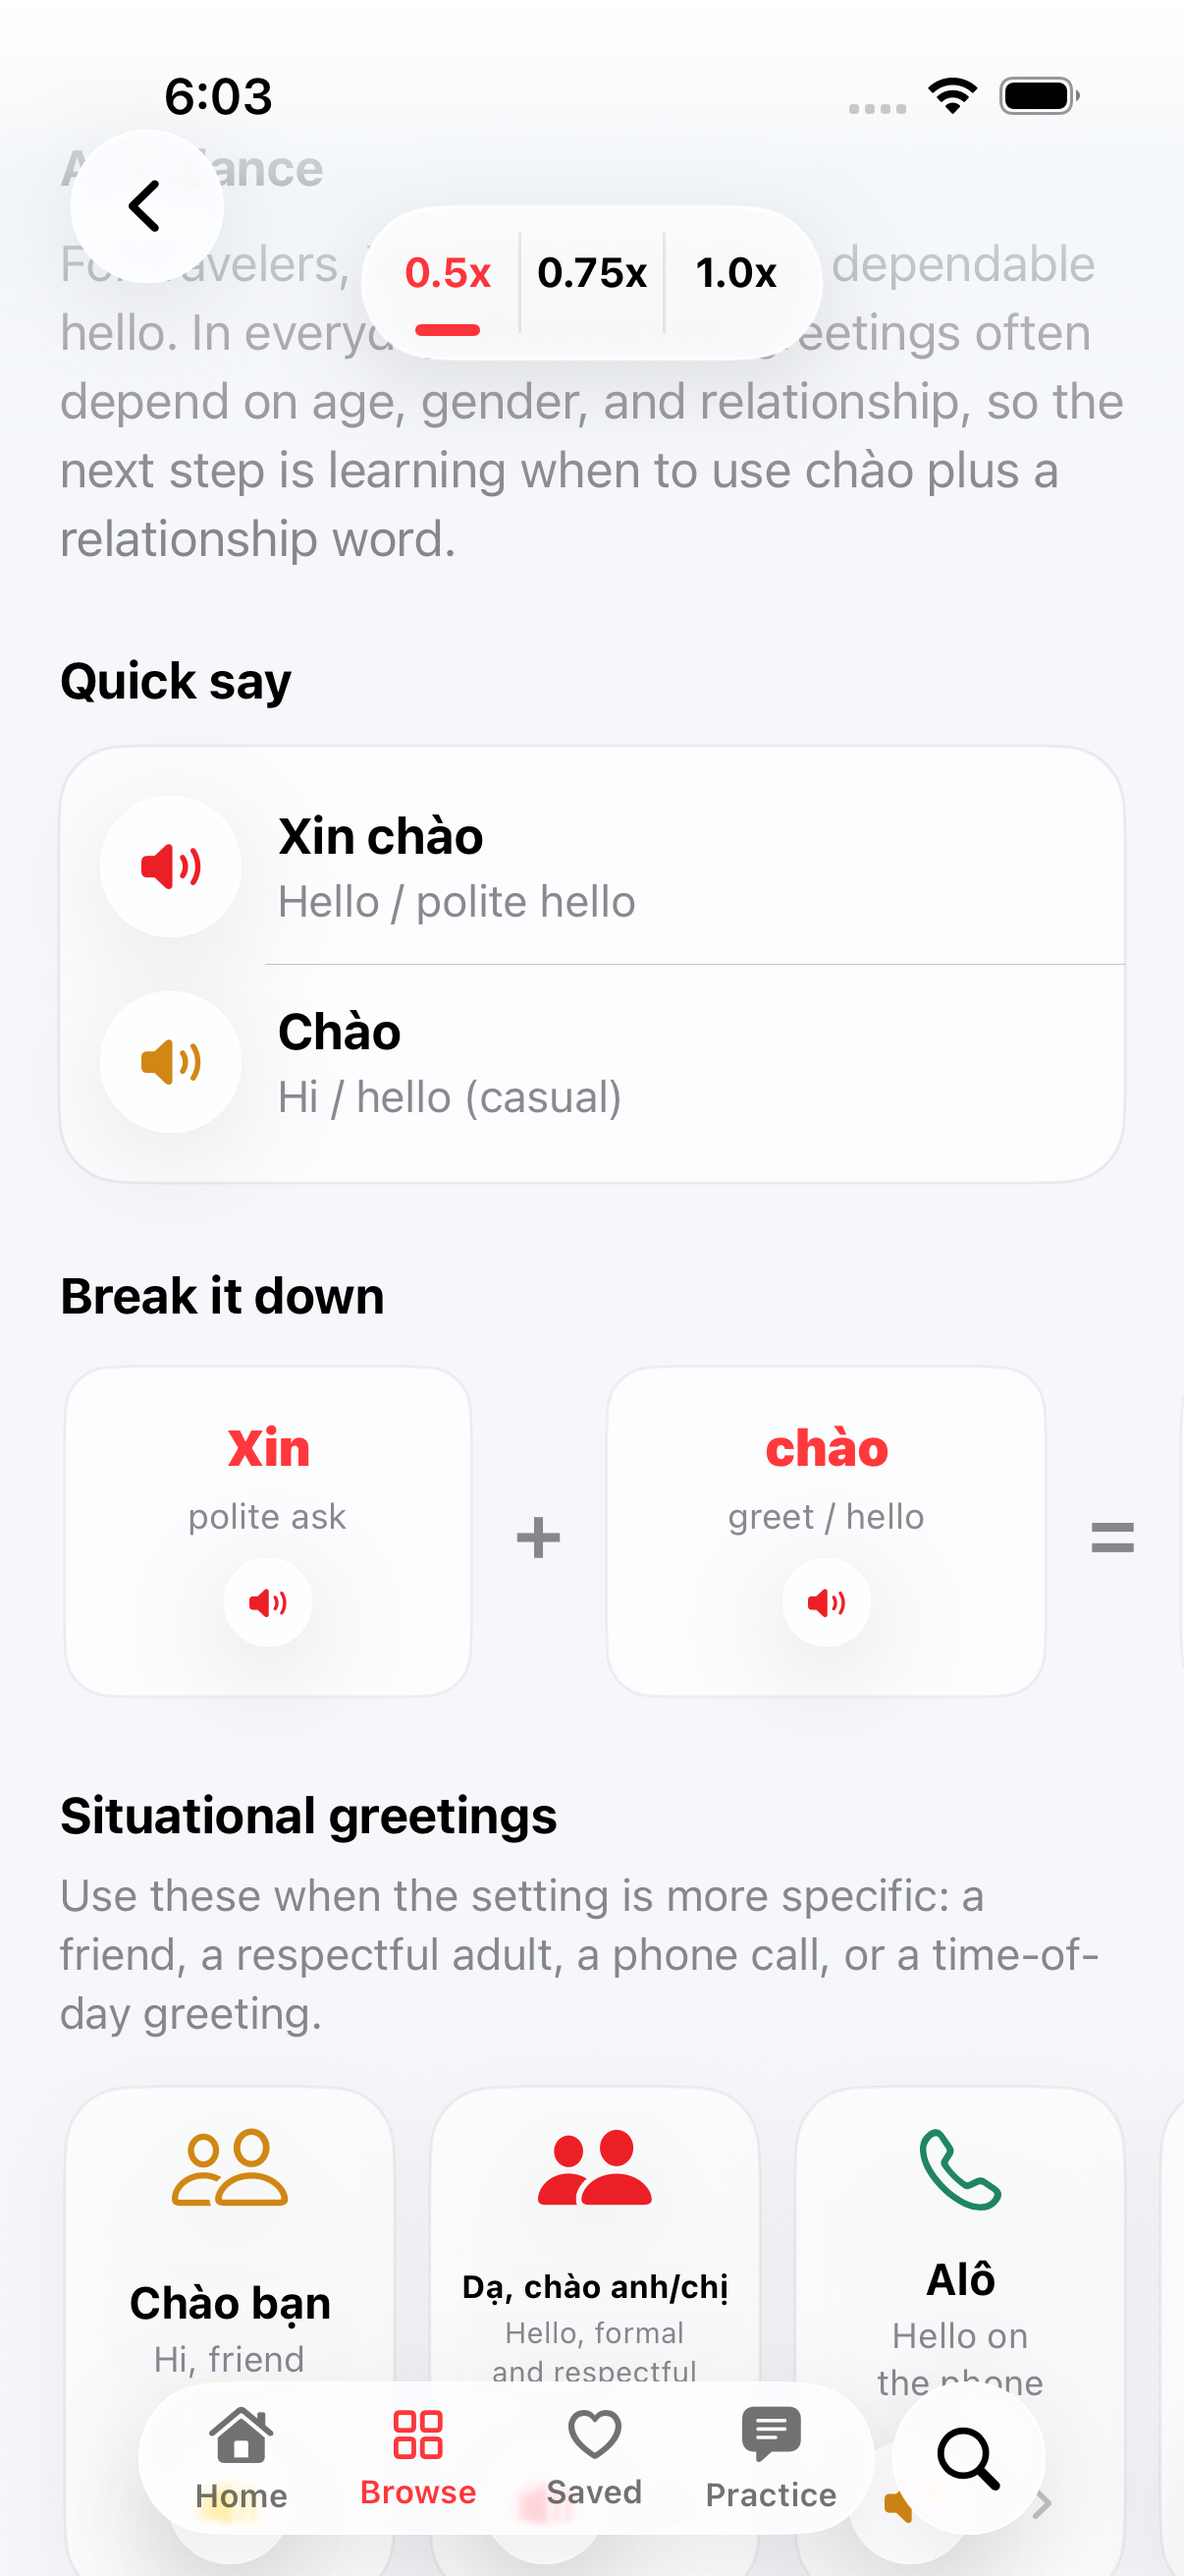
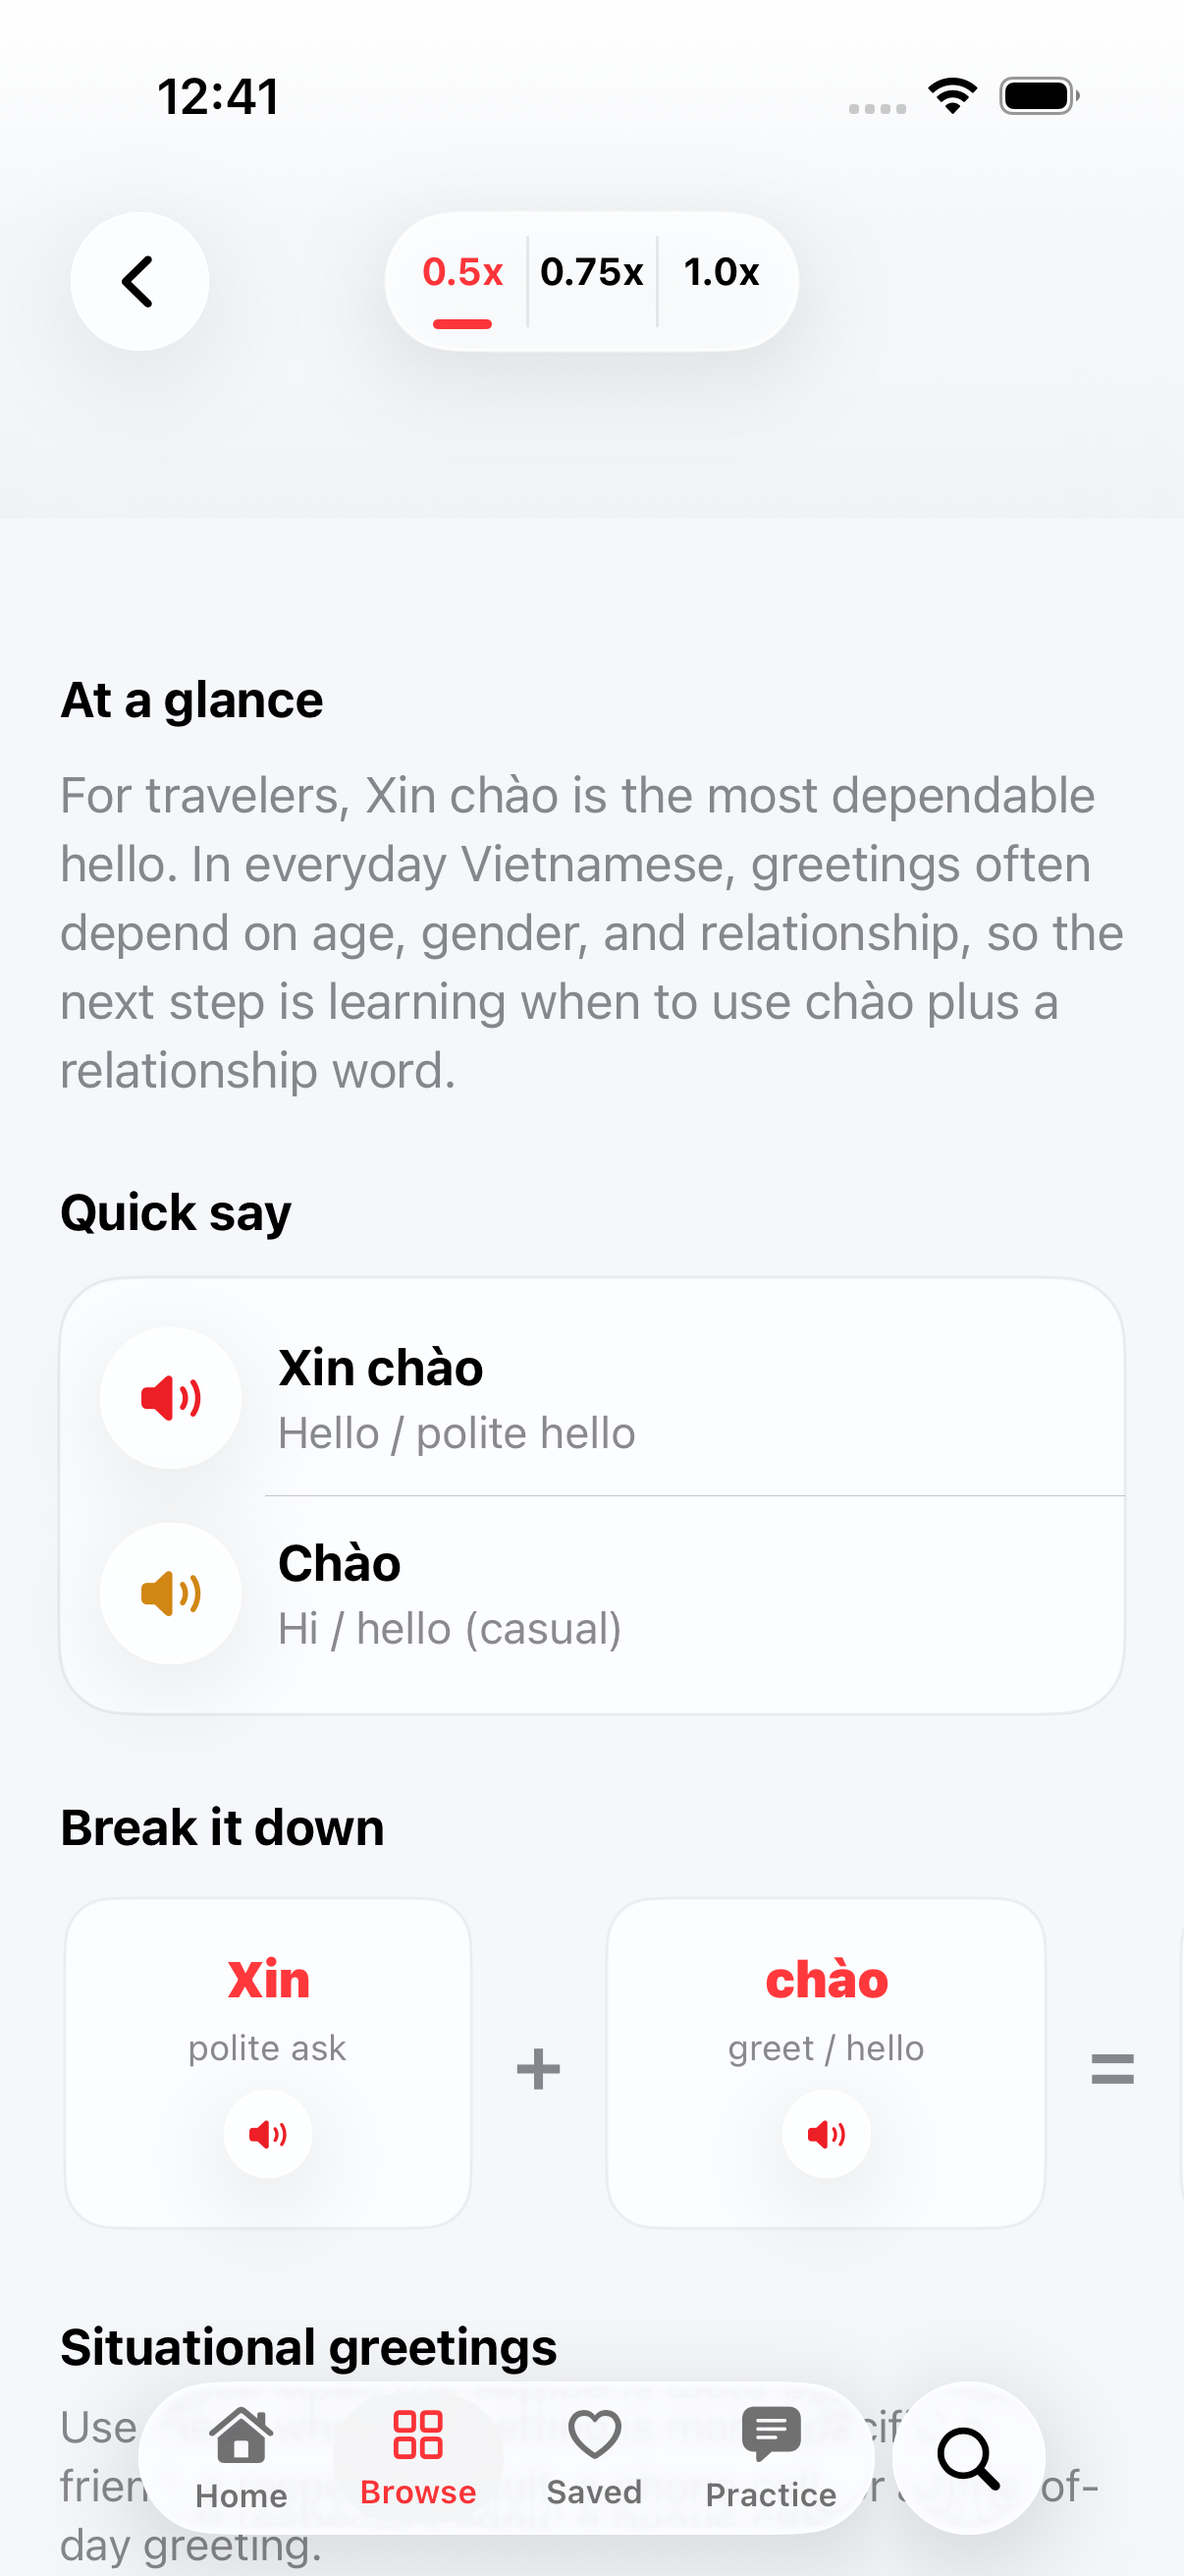
Align top admin chrome row

diff --git a/native-ios/App/Views/AppShellView.swift b/native-ios/App/Views/AppShellView.swift
@@ -216,29 +216,12 @@ struct AppShellView: View {
                 }
             }
             .overlay(alignment: .top) {
-                if showsPinnedAudioSpeedControl {
-                    PinnedAudioSpeedControl()
-                        .padding(.top, AppChromeLayout.pinnedAudioSpeedTopPadding)
-                        .transition(.scale(scale: 0.92).combined(with: .opacity))
+                if showsTopAdminRow {
+                    topAdminRow
+                        .padding(.horizontal, AppChromeLayout.topAdminHorizontalPadding)
+                        .padding(.top, AppChromeLayout.topAdminTopPadding)
+                        .transition(.opacity)
                         .zIndex(410)
-                }
-            }
-            .overlay(alignment: .topLeading) {
-                if showsStaticBackButton {
-                    staticBackButton
-                        .padding(.leading, 24)
-                        .padding(.top, 6)
-                        .offset(y: -24)
-                        .zIndex(400)
-                }
-            }
-            .overlay(alignment: .topTrailing) {
-                if navigation.canGoForward {
-                    forwardButton
-                        .padding(.trailing, 24)
-                        .padding(.top, 6)
-                        .offset(y: -24)
-                        .zIndex(400)
                 }
             }
             .onAppear {
@@ -527,6 +510,10 @@ struct AppShellView: View {
         showsPinnedAudioSpeedControl ? AppChromeLayout.pinnedAudioSpeedScrollClearance : 0
     }
 
+    private var showsTopAdminRow: Bool {
+        showsStaticBackButton || showsPinnedAudioSpeedControl || navigation.canGoForward
+    }
+
     private var bottomChromePadding: CGFloat {
         isSearchFieldFocused ? 12 : AppChromeLayout.bottomPadding
     }
@@ -553,19 +540,47 @@ struct AppShellView: View {
         .contentShape(Rectangle())
     }
 
+    private var topAdminRow: some View {
+        ZStack {
+            HStack {
+                if showsStaticBackButton {
+                    staticBackButton
+                } else {
+                    topAdminPlaceholder
+                }
+
+                Spacer(minLength: 0)
+
+                if navigation.canGoForward {
+                    forwardButton
+                } else {
+                    topAdminPlaceholder
+                }
+            }
+
+            if showsPinnedAudioSpeedControl {
+                PinnedAudioSpeedControl()
+                    .transition(.scale(scale: 0.94).combined(with: .opacity))
+            }
+        }
+        .frame(maxWidth: .infinity)
+        .frame(height: AppChromeLayout.topAdminControlSize)
+    }
+
     private var staticBackButton: some View {
         Button {
             goBack()
         } label: {
             Image(systemName: "chevron.left")
-                .font(.title3.weight(.semibold))
-                .frame(width: 52, height: 52)
+                .font(.system(size: 20, weight: .semibold))
+                .frame(width: AppChromeLayout.topAdminControlSize, height: AppChromeLayout.topAdminControlSize)
                 .foregroundStyle(.primary)
                 .contentShape(Circle())
         }
         .buttonStyle(.plain)
-        .nativeGlass(cornerRadius: 26, interactive: true)
+        .nativeGlass(cornerRadius: AppChromeLayout.topAdminControlCornerRadius, interactive: true)
         .accessibilityLabel("Go back")
+        .accessibilityIdentifier("TopAdmin.BackButton")
     }
 
     @ViewBuilder
@@ -762,14 +777,22 @@ struct AppShellView: View {
             goForward()
         } label: {
             Image(systemName: "chevron.right")
-                .font(.title3.weight(.semibold))
-                .frame(width: 52, height: 52)
+                .font(.system(size: 20, weight: .semibold))
+                .frame(width: AppChromeLayout.topAdminControlSize, height: AppChromeLayout.topAdminControlSize)
                 .foregroundStyle(.primary)
                 .contentShape(Circle())
         }
         .buttonStyle(.plain)
-        .nativeGlass(cornerRadius: 26, interactive: true)
+        .nativeGlass(cornerRadius: AppChromeLayout.topAdminControlCornerRadius, interactive: true)
         .accessibilityLabel("Go forward")
+        .accessibilityIdentifier("TopAdmin.ForwardButton")
+    }
+
+    private var topAdminPlaceholder: some View {
+        Color.clear
+            .frame(width: AppChromeLayout.topAdminControlSize, height: AppChromeLayout.topAdminControlSize)
+            .allowsHitTesting(false)
+            .accessibilityHidden(true)
     }
 
     @ViewBuilder

diff --git a/native-ios/App/Views/AudioControls.swift b/native-ios/App/Views/AudioControls.swift
@@ -197,7 +197,51 @@ struct PlaybackDockView: View {
     }
 }
 
+struct AudioSpeedControlMetrics {
+    let textSize: CGFloat
+    let textHeight: CGFloat
+    let underlineWidth: CGFloat
+    let underlineHeight: CGFloat
+    let itemWidth: CGFloat
+    let itemHeight: CGFloat
+    let dividerHeight: CGFloat
+    let horizontalPadding: CGFloat
+    let verticalPadding: CGFloat
+    let controlHeight: CGFloat
+    let cornerRadius: CGFloat
+
+    static let regular = AudioSpeedControlMetrics(
+        textSize: 14,
+        textHeight: 29,
+        underlineWidth: 22,
+        underlineHeight: 4,
+        itemWidth: 48,
+        itemHeight: 42,
+        dividerHeight: 34,
+        horizontalPadding: 5,
+        verticalPadding: 4,
+        controlHeight: 52,
+        cornerRadius: 26
+    )
+
+    static let topAdmin = AudioSpeedControlMetrics(
+        textSize: 13,
+        textHeight: 26,
+        underlineWidth: 20,
+        underlineHeight: 3.5,
+        itemWidth: 43,
+        itemHeight: 38,
+        dividerHeight: 31,
+        horizontalPadding: 4.5,
+        verticalPadding: 3.5,
+        controlHeight: AppChromeLayout.topAdminControlSize,
+        cornerRadius: AppChromeLayout.topAdminControlCornerRadius
+    )
+}
+
 struct AudioSpeedSegmentedControl: View {
+    var metrics = AudioSpeedControlMetrics.regular
+
     @AppStorage(AudioPlaybackPreference.speedKey) private var selectedSpeed = AudioPlaybackPreference.defaultSpeed
     private let speeds = AudioPlaybackPreference.speeds
 
@@ -213,15 +257,15 @@ struct AudioSpeedSegmentedControl: View {
                 } label: {
                     VStack(spacing: 3) {
                         Text(speed)
-                            .font(.system(size: 14, weight: .bold))
+                            .font(.system(size: metrics.textSize, weight: .bold))
                             .foregroundStyle(currentSpeed == speed ? .red : .primary)
-                            .frame(height: 29)
+                            .frame(height: metrics.textHeight)
 
                         Capsule(style: .continuous)
                             .fill(currentSpeed == speed ? Color.red : Color.clear)
-                            .frame(width: 22, height: 4)
+                            .frame(width: metrics.underlineWidth, height: metrics.underlineHeight)
                     }
-                    .frame(width: 48, height: 42)
+                    .frame(width: metrics.itemWidth, height: metrics.itemHeight)
                     .contentShape(Rectangle())
                 }
                 .buttonStyle(.plain)
@@ -229,13 +273,13 @@ struct AudioSpeedSegmentedControl: View {
                 if index < speeds.count - 1 {
                     Rectangle()
                         .fill(Color.black.opacity(0.08))
-                        .frame(width: 1, height: 34)
+                        .frame(width: 1, height: metrics.dividerHeight)
                 }
             }
         }
-        .padding(.horizontal, 5)
-        .padding(.vertical, 4)
-        .frame(height: 52)
+        .padding(.horizontal, metrics.horizontalPadding)
+        .padding(.vertical, metrics.verticalPadding)
+        .frame(height: metrics.controlHeight)
         .background {
             Capsule(style: .continuous)
                 .fill(.white.opacity(0.42))
@@ -245,7 +289,7 @@ struct AudioSpeedSegmentedControl: View {
             Capsule(style: .continuous)
                 .stroke(.white.opacity(0.66), lineWidth: 1)
         }
-        .nativeGlass(cornerRadius: 26, interactive: true)
+        .nativeGlass(cornerRadius: metrics.cornerRadius, interactive: true)
         .accessibilityElement(children: .contain)
         .accessibilityLabel("Audio speed")
         .accessibilityIdentifier("AudioSpeedControl")
@@ -254,7 +298,7 @@ struct AudioSpeedSegmentedControl: View {
 
 struct PinnedAudioSpeedControl: View {
     var body: some View {
-        AudioSpeedSegmentedControl()
+        AudioSpeedSegmentedControl(metrics: .topAdmin)
             .accessibilityIdentifier("PinnedAudioSpeedControl")
     }
 }

diff --git a/native-ios/UITests/AdminChromeUITests.swift b/native-ios/UITests/AdminChromeUITests.swift
@@ -83,6 +83,7 @@ final class AdminChromeUITests: XCTestCase {
         XCTAssertTrue(app.descendants(matching: .any)["0.75x"].exists)
         XCTAssertTrue(app.descendants(matching: .any)["1.0x"].exists)
         assertVisibleSectionContentClearsPinnedSpeedControl(app: app, pinnedSpeedControl: pinnedSpeedControl)
+        assertTopAdminControlsShareRow(app: app, pinnedSpeedControl: pinnedSpeedControl)
         capturePinnedAudioProofIfRequested(app: app, name: "pinned-speed-control.png")
     }
 
@@ -266,6 +267,36 @@ final class AdminChromeUITests: XCTestCase {
             pinnedSpeedControl.frame.maxY + 12,
             "Pinned speed control should not overlap the first visible section title."
         )
+    }
+
+    private func assertTopAdminControlsShareRow(
+        app: XCUIApplication,
+        pinnedSpeedControl: XCUIElement
+    ) {
+        let backButton = app.buttons["TopAdmin.BackButton"]
+        XCTAssertTrue(backButton.exists, "Expected the top admin back button to be visible.")
+
+        XCTAssertEqual(
+            backButton.frame.midY,
+            pinnedSpeedControl.frame.midY,
+            accuracy: 2,
+            "Top admin back button and speed control should share the same row."
+        )
+        XCTAssertLessThanOrEqual(
+            pinnedSpeedControl.frame.height,
+            48,
+            "Pinned speed control should use the compact top-admin height."
+        )
+
+        let forwardButton = app.buttons["TopAdmin.ForwardButton"]
+        if forwardButton.exists {
+            XCTAssertEqual(
+                forwardButton.frame.midY,
+                pinnedSpeedControl.frame.midY,
+                accuracy: 2,
+                "Top admin forward button and speed control should share the same row."
+            )
+        }
     }
 
     private func verifyDockTapFromDenseDetail(

diff --git a/native-ios/Tests/AppChromeTests.swift b/native-ios/Tests/AppChromeTests.swift
@@ -68,6 +68,14 @@ final class AppChromeTests: XCTestCase {
         )
     }
 
+    func testTopAdminControlsUseCompactAlignedMetrics() {
+        XCTAssertEqual(AppChromeLayout.topAdminControlSize, 47)
+        XCTAssertLessThan(AppChromeLayout.topAdminControlSize, AppChromeLayout.searchIslandSize)
+        XCTAssertEqual(AppChromeLayout.topAdminControlCornerRadius, AppChromeLayout.topAdminControlSize / 2)
+        XCTAssertEqual(AudioSpeedControlMetrics.topAdmin.controlHeight, AppChromeLayout.topAdminControlSize)
+        XCTAssertLessThan(AudioSpeedControlMetrics.topAdmin.controlHeight, AudioSpeedControlMetrics.regular.controlHeight)
+    }
+
     func testExploreCatalogUsesAppStoreStyleThreeRowGroups() {
         XCTAssertEqual(ExploreCatalogLayout.itemsPerGroup, 3)
         XCTAssertGreaterThan(ExploreCatalogLayout.fullGroupHeight, ExploreCatalogLayout.rowHeight * 3)

diff --git a/native-ios/App/Design/NativeGlass.swift b/native-ios/App/Design/NativeGlass.swift
@@ -164,8 +164,11 @@ enum AppChromeLayout {
     static let keyboardDismissMorphZIndex: Double = 5
     static let searchForegroundMorphZIndex: Double = 6
     static let searchFieldIconSlotWidth: CGFloat = 24
+    static let topAdminHorizontalPadding: CGFloat = 24
+    static let topAdminTopPadding: CGFloat = 10
+    static let topAdminControlSize: CGFloat = 47
+    static let topAdminControlCornerRadius: CGFloat = topAdminControlSize / 2
     static let pinnedAudioSpeedRevealY: CGFloat = 96
-    static let pinnedAudioSpeedTopPadding: CGFloat = 12
     static let pinnedAudioSpeedScrollClearance: CGFloat = 176
     static let pinnedAudioSpeedBackdropHeight: CGFloat = pinnedAudioSpeedScrollClearance
 }
